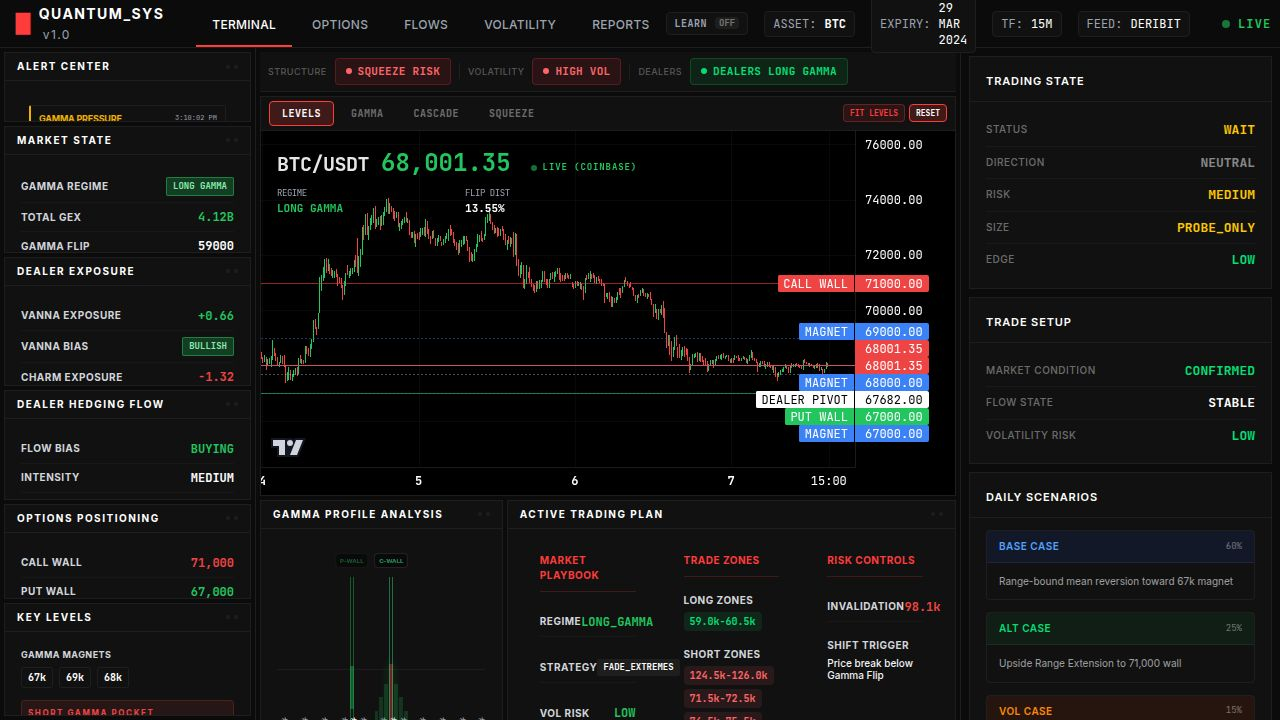
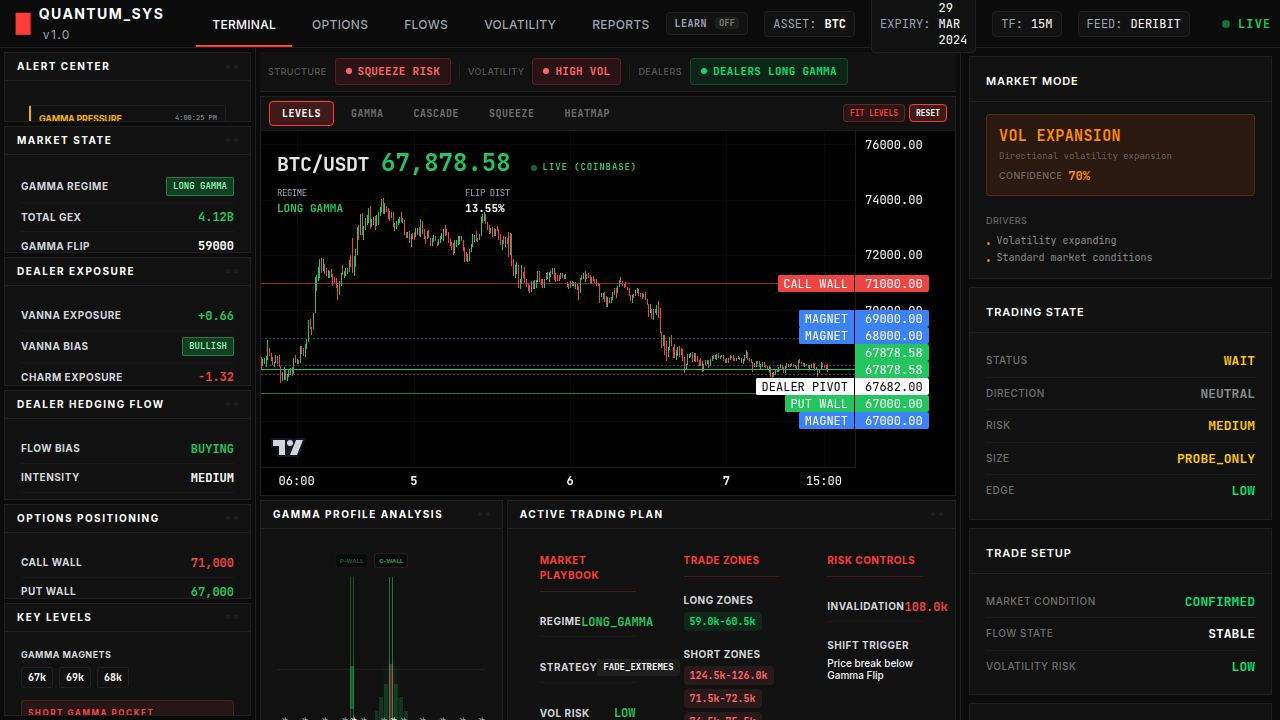
Improve liquidity heatmap visualization by scaling line thickness and opacity
Adjusts the rendering of liquidity heatmap zones by scaling line width, opacity, and style based on liquidity intensity, improving visual representation of liquidity levels.

Replit-Commit-Author: Agent
Replit-Commit-Session-Id: f6c5170a-22e2-47a2-be42-87f4565b3f5b
Replit-Commit-Checkpoint-Type: full_checkpoint
Replit-Commit-Event-Id: 0b2408fc-f0a0-4548-8381-970ab2d797c7
Replit-Commit-Screenshot-Url: https://storage.googleapis.com/screenshot-production-us-central1/0816ca60-048d-4c47-9f02-2b324f40955c/f6c5170a-22e2-47a2-be42-87f4565b3f5b/fQEOMPM
Replit-Helium-Checkpoint-Created: true

diff --git a/client/src/components/terminal/MainChart.tsx b/client/src/components/terminal/MainChart.tsx
@@ -330,22 +330,26 @@ export function MainChart() {
           .sort((a: any, b: any) => b.intensity - a.intensity)
           .slice(0, 8);
 
-        bidZones.forEach((zone: any, i: number) => {
+        const intensityToWidth = (int: number) => int >= 0.7 ? 3 : int >= 0.35 ? 2 : 1;
+        const intensityToOpacity = (int: number) => Math.min(0.75, 0.1 + int * 0.65);
+        const intensityToStyle = (int: number) => int >= 0.5 ? LineStyle.Solid : LineStyle.Dotted;
+
+        bidZones.forEach((zone: any) => {
           const mid = (zone.priceStart + zone.priceEnd) / 2;
           if (confluenceSet.has(zone.priceStart)) return;
-          const isStrongest = i === 0;
-          const opacity = isStrongest ? 0.6 : 0.12 + zone.intensity * 0.45;
+          const opacity = intensityToOpacity(zone.intensity);
+          const width = intensityToWidth(zone.intensity);
           const label = `BID ${mid >= 1000 ? (mid / 1000).toFixed(mid % 1000 === 0 ? 0 : 1) + "k" : mid}`;
-          addLevel(mid, `rgba(34, 197, 94, ${opacity.toFixed(2)})`, label, LineStyle.Dotted, isStrongest ? 2 : 1);
+          addLevel(mid, `rgba(34, 197, 94, ${opacity.toFixed(2)})`, label, intensityToStyle(zone.intensity), width);
         });
 
-        askZones.forEach((zone: any, i: number) => {
+        askZones.forEach((zone: any) => {
           const mid = (zone.priceStart + zone.priceEnd) / 2;
           if (confluenceSet.has(zone.priceStart)) return;
-          const isStrongest = i === 0;
-          const opacity = isStrongest ? 0.6 : 0.12 + zone.intensity * 0.45;
+          const opacity = intensityToOpacity(zone.intensity);
+          const width = intensityToWidth(zone.intensity);
           const label = `ASK ${mid >= 1000 ? (mid / 1000).toFixed(mid % 1000 === 0 ? 0 : 1) + "k" : mid}`;
-          addLevel(mid, `rgba(239, 68, 68, ${opacity.toFixed(2)})`, label, LineStyle.Dotted, isStrongest ? 2 : 1);
+          addLevel(mid, `rgba(239, 68, 68, ${opacity.toFixed(2)})`, label, intensityToStyle(zone.intensity), width);
         });
       }
     }
